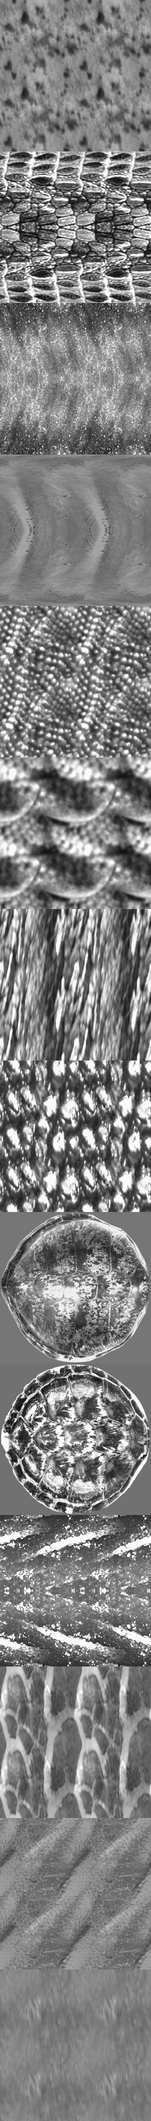
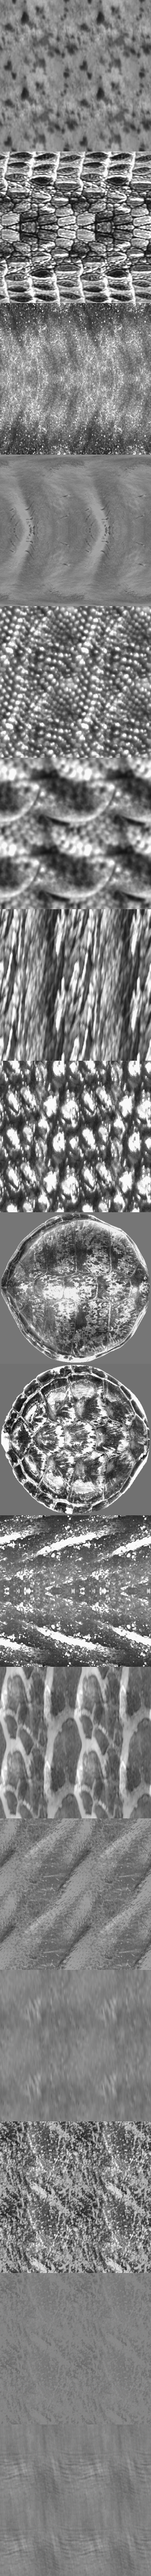
Skins for whales, dolphins and swordfish (0.160)
A breaching humpback's pleats and scars, the same patch softened to a
faint mottle on dolphins and orcas, a swordfish's fine lines. Bodies only.
marineGeometry() for previews and tests.

diff --git a/src/props/marine.ts b/src/props/marine.ts
@@ -8,6 +8,7 @@ import type { Random } from '../random'
 import { MeshBuilder } from './builder'
 import type { PropContext } from './context'
 import { forced, forcedKind, type MarineSpecies } from '../sceneSpec'
+import { skinCoords, skinMaterial, skinsOn, type SkinId } from './skins'
 import { SprayBuilder } from './surf'
 
 // Marine animals caught at the surface — the moments people photograph:
@@ -42,11 +43,13 @@ interface Look {
   fin: RGB
   /** Extra markings: return a colour or null for the plain countershading. */
   marking?: (t: number, up: number, side: number) => RGB | null
+  /** Its photo skin (props/skins.ts). */
+  skin: SkinId
 }
 
 const LOOKS: Record<Species, Look> = {
-  dolphin: { back: [0.06, 0.07, 0.08], belly: [0.55, 0.56, 0.56], fin: [0.05, 0.055, 0.06] },
-  orca: {
+  dolphin: { skin: 'cetacean', back: [0.06, 0.07, 0.08], belly: [0.55, 0.56, 0.56], fin: [0.05, 0.055, 0.06] },
+  orca: { skin: 'cetacean',
     back: [0.012, 0.012, 0.014],
     belly: [0.7, 0.7, 0.68],
     fin: [0.012, 0.012, 0.014],
@@ -57,14 +60,14 @@ const LOOKS: Record<Species, Look> = {
       return null
     }
   },
-  humpback: {
+  humpback: { skin: 'humpback',
     back: [0.03, 0.033, 0.038],
     belly: [0.35, 0.36, 0.36],
     fin: [0.6, 0.6, 0.58],
     // Barnacle-white knobs on the head.
     marking: (t, up) => (t < 0.18 && up > 0.6 && (Math.sin(t * 160) * Math.sin(up * 40)) > 0.75 ? [0.5, 0.5, 0.48] : null)
   },
-  swordfish: { back: [0.03, 0.035, 0.07], belly: [0.45, 0.47, 0.5], fin: [0.03, 0.03, 0.06] }
+  swordfish: { skin: 'swordfish', back: [0.03, 0.035, 0.07], belly: [0.45, 0.47, 0.5], fin: [0.03, 0.03, 0.06] }
 }
 
 const mix = (a: RGB, b: RGB, t: number): RGB => [
@@ -102,7 +105,8 @@ class Animal {
 
   constructor(
     readonly shape: BodyShape,
-    readonly look: Look
+    readonly look: Look,
+    skin = false
   ) {
     const n = 40
     for (let i = 0; i <= n; i++) {
@@ -118,7 +122,8 @@ class Animal {
         const marked = look.marking?.(t, up, -Math.sin(angle))
         return marked ?? mix(look.belly, look.back, Math.min(1, Math.max(0, (up - 0.3) * 2.2)))
       },
-      14
+      14,
+      skin ? skinCoords(look.skin, shape.length) : undefined
     )
   }
 
@@ -160,7 +165,7 @@ class Animal {
   }
 }
 
-function dolphin(rng: Random, arch: number): BufferGeometry {
+function dolphin(rng: Random, arch: number, skin = false): BufferGeometry {
   const length = rng.range(2.2, 2.8)
   const a = new Animal(
     {
@@ -178,7 +183,8 @@ function dolphin(rng: Random, arch: number): BufferGeometry {
           [1, 0.02]
         ])(t) * length
     },
-    LOOKS.dolphin
+    LOOKS.dolphin,
+    skin
   )
   // Falcate dorsal fin, pectorals, flukes.
   a.fin([a.surface(0.42, 0.95), a.surface(0.58, 0.9).add(new Vector3(-0.12, 0.33, 0)), a.surface(0.62, 0.9)])
@@ -189,7 +195,7 @@ function dolphin(rng: Random, arch: number): BufferGeometry {
   return a.build()
 }
 
-function orca(rng: Random, male: boolean): BufferGeometry {
+function orca(rng: Random, male: boolean, skin = false): BufferGeometry {
   const length = male ? rng.range(7, 8.5) : rng.range(5.5, 6.5)
   const a = new Animal(
     {
@@ -205,7 +211,8 @@ function orca(rng: Random, male: boolean): BufferGeometry {
           [1, 0.03]
         ])(t) * length
     },
-    LOOKS.orca
+    LOOKS.orca,
+    skin
   )
   const fin = male ? rng.range(1.4, 1.8) : rng.range(0.7, 0.9)
   const lean = male ? 0.1 : 0.45
@@ -217,7 +224,7 @@ function orca(rng: Random, male: boolean): BufferGeometry {
   return a.build()
 }
 
-function humpback(rng: Random): BufferGeometry {
+function humpback(rng: Random, skin = false): BufferGeometry {
   const length = rng.range(12, 15)
   const a = new Animal(
     {
@@ -234,7 +241,8 @@ function humpback(rng: Random): BufferGeometry {
           [1, 0.02]
         ])(t) * length
     },
-    LOOKS.humpback
+    LOOKS.humpback,
+    skin
   )
   // Small humped dorsal fin, very long white flippers, broad flukes with
   // a pale, individually patterned underside.
@@ -252,7 +260,7 @@ function humpback(rng: Random): BufferGeometry {
   return a.build()
 }
 
-function swordfish(rng: Random): BufferGeometry {
+function swordfish(rng: Random, skin = false): BufferGeometry {
   const length = rng.range(2.6, 3.8)
   const a = new Animal(
     {
@@ -269,7 +277,8 @@ function swordfish(rng: Random): BufferGeometry {
           [1, 0.01]
         ])(t) * length
     },
-    LOOKS.swordfish
+    LOOKS.swordfish,
+    skin
   )
   const h = length * 0.17
   // Tall sickle dorsal, pectorals, and the vertical crescent tail of a fish.
@@ -365,6 +374,14 @@ const SPECIES_BY_OCEAN: Record<OceanName, readonly (readonly [Species, number])[
 }
 
 /** Which animal shows at the surface today, or null. */
+/** One animal's mesh (scripts/mesh.mjs, tests): its pose's defaults. */
+export function marineGeometry(rng: Random, species: Species, skin = false): BufferGeometry {
+  if (species === 'dolphin') return dolphin(rng, 0.05, skin)
+  if (species === 'orca') return orca(rng, true, skin)
+  if (species === 'humpback') return humpback(rng, skin)
+  return swordfish(rng, skin)
+}
+
 export function marineFor(params: SceneParams, rng: Random): Species | null {
   const force = params.overrides?.marine
   if (!forced(force, rng.chance(0.35) && params.storm == null)) return null
@@ -385,6 +402,9 @@ export function createMarineLife(ctx: PropContext): Object3D[] {
   const species = marineFor(params, rng)
   if (species == null) return []
   const material = new MeshStandardMaterial({ vertexColors: true, roughness: 0.3, side: DoubleSide })
+  // Photo skins (props/skins.ts) on the bodies; fins and flukes plain.
+  const skins = skinsOn(params.overrides)
+  if (skins) skinMaterial(material)
   const spray = new SprayBuilder()
   // Mostly side-on to the camera, the view that shows an animal's shape.
   const forward = ctx.camera.getWorldDirection(new Vector3())
@@ -452,12 +472,12 @@ export function createMarineLife(ctx: PropContext): Object3D[] {
           const phase = rng.range(-1, 1)
           const reach = rng.range(1.8, 2.6)
           const lift = rng.range(0.6, 1.3)
-          place(dolphin(rng, 0.12), at.clone().add(along(yaw, phase * reach)), yaw, -phase * 0.7, (1 - phase * phase) * (0.6 + lift) - 0.15, 0.8)
+          place(dolphin(rng, 0.12, skins), at.clone().add(along(yaw, phase * reach)), yaw, -phase * 0.7, (1 - phase * phase) * (0.6 + lift) - 0.15, 0.8)
           exitSplash(spray, rng, onSea(at.clone().add(along(yaw, -reach))), 0.9, (1 - phase) / 2)
         } else {
           // Rolling at the surface: back and fin above water, a little
           // white water where the head and tail stock break it.
-          place(dolphin(rng, 0.05), at, yaw, rng.normal(0, 0.08), -0.15, 0.15)
+          place(dolphin(rng, 0.05, skins), at, yaw, rng.normal(0, 0.08), -0.15, 0.15)
           foam(spray, rng, onSea(at.clone().add(along(yaw, -1.2))), 0.5, along(yaw, -2))
         }
       }
@@ -469,7 +489,7 @@ export function createMarineLife(ctx: PropContext): Object3D[] {
         const at = center.clone().add(new Vector3(rng.normal(0, 12), 0, rng.normal(0, 12)))
         if (ctx.ground(at.x, at.z) > -3) continue
         const yaw = heading + rng.normal(0, 0.1)
-        place(orca(rng, i === 0 || rng.chance(0.3)), at, yaw, rng.normal(0.03, 0.04), -0.6, 0.25)
+        place(orca(rng, i === 0 || rng.chance(0.3), skins), at, yaw, rng.normal(0.03, 0.04), -0.6, 0.25)
         // Surfacing: a wash of white water off the head, a slick behind.
         foam(spray, rng, onSea(at.clone().add(along(yaw, -3))), 0.6, along(yaw, -4))
         if (rng.chance(0.5)) blow(spray, rng, onSea(at.clone().add(along(yaw, 1.5))), rng.range(1.5, 2.5))
@@ -482,7 +502,7 @@ export function createMarineLife(ctx: PropContext): Object3D[] {
         ['breach', 2],
         ['blow', 3]
       ] as const)
-      const geometry = humpback(rng)
+      const geometry = humpback(rng, skins)
       const length = 13.5
       if (pose === 'flukes') {
         // Diving: tail stock and flukes raised clear of the water, water
@@ -504,7 +524,7 @@ export function createMarineLife(ctx: PropContext): Object3D[] {
     }
     case 'swordfish': {
       const phase = rng.range(-0.8, 0.4)
-      place(swordfish(rng), center, heading, 0.4 - phase, rng.range(0.6, 1.4), 0.8)
+      place(swordfish(rng, skins), center, heading, 0.4 - phase, rng.range(0.6, 1.4), 0.8)
       exitSplash(spray, rng, onSea(center.clone().add(along(heading, -1.5))), 0.6, (1 - phase) / 2)
       break
     }

diff --git a/test/skins.test.ts b/test/skins.test.ts
@@ -1,6 +1,7 @@
 import type { BufferAttribute } from 'three'
 import { describe, expect, it } from 'vitest'
 
+import { marineGeometry } from '../src/props/marine'
 import { pinniped, swimmingHead } from '../src/props/pinnipeds'
 import { SKIN_IDS, skinCoords, skinTile } from '../src/props/skins'
 import { crocodileGeometry, hippoGeometry, lizardGeometry, monkeyGeometry, turtleGeometry } from '../src/props/wildlife'
@@ -28,7 +29,7 @@ describe('photo skins', () => {
     expect(skinCoords('harbour-seal', length * 2)(0, 0, 0.3, tile[0])[0]).toBeCloseTo(0.5, 9)
   })
 
-  it('give every seal, head, lizard, turtle, hippo and monkey a skin only when asked', () => {
+  it('give every seal, head, lizard, turtle, hippo, monkey and marine animal a skin only when asked', () => {
     expect(pinniped(new Random('s'), 'seal', 'lying', 0, false).getAttribute('skin')).toBeUndefined()
     for (const kind of ['seal', 'sea-lion', 'fur-seal', 'elephant-seal'] as const) {
       expect(pinniped(new Random('s'), kind, 'lying', 0, true).getAttribute('skin')).toBeDefined()
@@ -44,6 +45,10 @@ describe('photo skins', () => {
     }
     expect(hippoGeometry(new Random('h'), 0, true).getAttribute('skin')).toBeDefined()
     for (const kind of ['macaque', 'capuchin', 'vervet'] as const) expect(monkeyGeometry(new Random('m'), kind, 'sit', true).getAttribute('skin')).toBeDefined()
+    for (const species of ['dolphin', 'orca', 'humpback', 'swordfish'] as const) {
+      expect(marineGeometry(new Random('w'), species, false).getAttribute('skin')).toBeUndefined()
+      expect(marineGeometry(new Random('w'), species, true).getAttribute('skin')).toBeDefined()
+    }
     const skinned = pinniped(new Random('s'), 'seal', 'lying', 0, true)
     const plain = pinniped(new Random('s'), 'seal', 'lying', 0, false)
     const skin = skinned.getAttribute('skin') as BufferAttribute

diff --git a/changelog.md b/changelog.md
@@ -164,3 +164,4 @@ Informal versions (no git tags); each is a milestone. Dates are 2026 (MM-DD).
 | 0.157 | 11-13 | **Animal skins from photos** (`props/skins.ts`): markings from real photos on the procedural animals, first harbour seals (photo spots replace the noise ones) and crocodiles (scute rows, flank scales, blotches on body, legs and jaws). One 256² grey atlas layer per skin (`public/assets/skins.png`), baked by `scripts/skinBake.py` from `props/skins.json` recipes (patch, scale, licence): light divided out, brightness only, tiled, mean 1, so it multiplies the measured vertex colours and far animals look as before. Skin coordinates in metres along the body and down from the backbone, scaled by length (`MeshBuilder.tube`/`blob` `skin`). Up close they read; at real distances seals (≥ 60 m in two months of Wadden days) look the same, crocodiles (27 m) show faint scute bands. `props.skins: false` gives back 0.156 exactly. 0 params change |
 | 0.158 | 11-13 | **Skins for every seal and lizard:** elephant seals (a sand-dusted young northern elephant seal), sea lions and fur seals (one eared-seal coat from a Cape fur seal: no hauled-out sea lion photo with a usable licence turned up), swimming heads, and the marine and green iguanas, monitors and spiny-tailed iguanas (body and legs; their spots, bands and salt crusts stay in the vertex colours). Recipes take `mPerPx` for close-ups and `highlights` to cap wet glints. Atlas 8 layers, 174 kB. `props.skins: false` as before. 0 params change |
 | 0.159 | 11-13 | **Skins for turtles, hippos and monkeys:** whole carapaces from above (Australian Museum specimens; `mode: "whole"` in the bake, `skinWhole` mapping) on green, loggerhead and olive ridley shells, a radiating tortoiseshell on hawksbills, the ridged, flecked hide on leatherbacks, flipper scales on every turtle's head and flippers; a hippo's pores and folds; one monkey fur (a vervet's arm) on macaques, capuchins and vervets. The bake renormalises after clipping. Atlas 14 layers, 334 kB. 0 params change |
+| 0.160 | 11-13 | **Skins for whales, dolphins and swordfish:** a breaching humpback's throat pleats, mottling and scars; dolphins and orcas a faint mottle from the same photo (no close, usable dolphin photo found; their skin is smooth); a swordfish specimen's fine lines. Bodies only, fins and flukes plain. `marineGeometry()` builds one for previews and tests. Atlas 17 layers, 395 kB. 0 params change |

diff --git a/knowledge/arch/PROPS.md b/knowledge/arch/PROPS.md
@@ -120,7 +120,10 @@ pinnipeds, landforms, storm bolts, surf/rock spray, cloud events (`skyEvents.ts`
   one), the light divided out by a blur normalised inside the shell (the studio background masked by
   brightness); leatherbacks a ridged hide along the shell; a hawksbill's flipper scales on every
   turtle's head and flippers. Hippos (pores and folds, glints capped) and monkeys (one fur from a
-  vervet's arm) on body blobs (`skinBlob` wrap, offset per blob), legs and tails.
+  vervet's arm) on body blobs (`skinBlob` wrap, offset per blob), legs and tails. Marine animals
+  (0.160): a breaching humpback's pleats and scars; dolphins and orcas the same patch softened to a
+  faint mottle (spray drops in the photo are light, capped); a swordfish specimen's fine lines.
+  Bodies only; fins and flukes plain.
 - **Sea ice** (`seaIce.ts`, `props/seaIce.ts`, 0.114, plans/SEA_ICE.md): `pickSeaIce` on its own stream gives `params.seaIce`
   (`edge`, `cover`, `snow`, `melt`, `thin`, `rubble`, `lead`, `origin`). A sheet (a polar-grid wedge at `ICE_FREEBOARD`, curved like
   the sea, with `off` per vertex, the m from today's water) hides the ocean, drawn with a polygon offset as 0.18 m is
